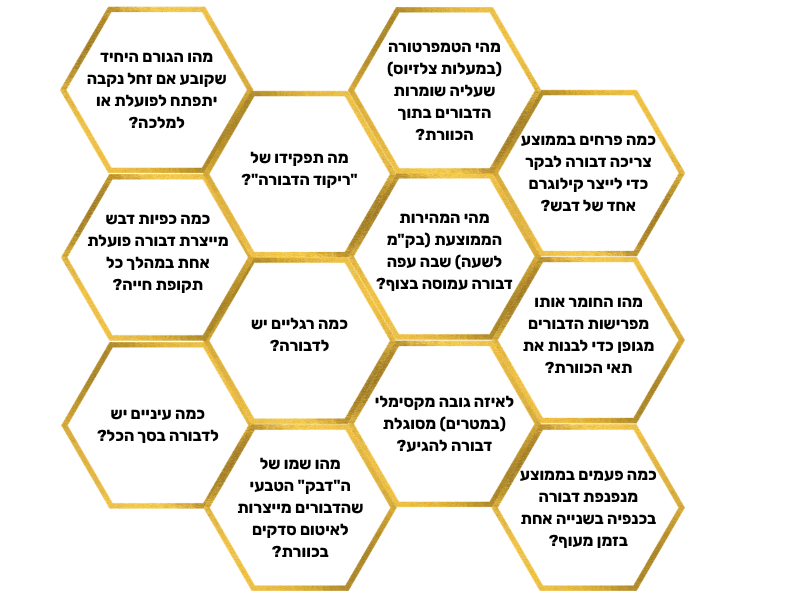
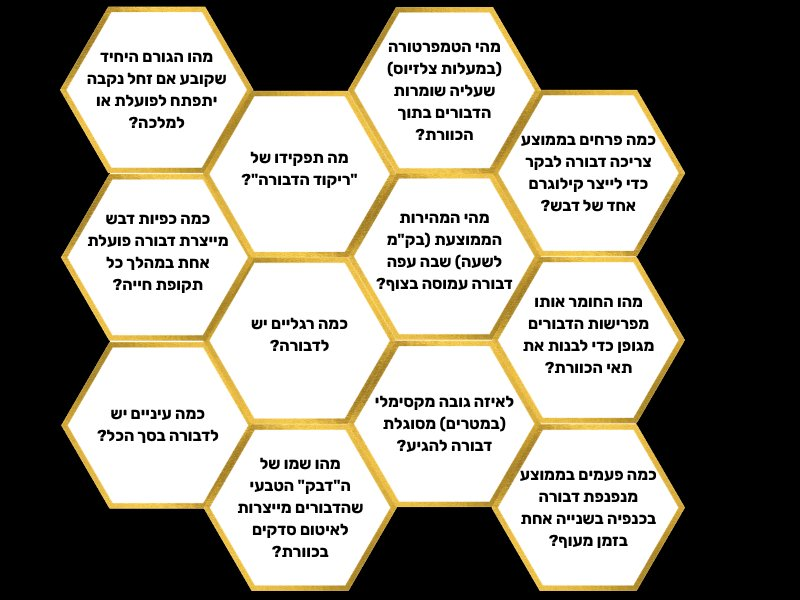
Add files via upload

diff --git a/styles.css b/styles.css
@@ -15,7 +15,7 @@ body {
     overflow-x: hidden;
 }
 
-/* פאטרן משושים צהבהבים-אפרפרים */
+/* פאטרן משושים צהבהבים-אפרפרים - בגודל דומה ללוח */
 body::before {
     content: '';
     position: fixed;
@@ -23,17 +23,13 @@ body::before {
     left: 0;
     right: 0;
     bottom: 0;
-    background-size: 60px 104px;
     background-image:
-        linear-gradient(30deg, rgba(255, 220, 150, 0.2) 12%, transparent 12.5%, transparent 87%, rgba(255, 220, 150, 0.2) 87.5%, rgba(255, 220, 150, 0.2)),
-        linear-gradient(150deg, rgba(255, 220, 150, 0.2) 12%, transparent 12.5%, transparent 87%, rgba(255, 220, 150, 0.2) 87.5%, rgba(255, 220, 150, 0.2)),
-        linear-gradient(30deg, rgba(255, 220, 150, 0.2) 12%, transparent 12.5%, transparent 87%, rgba(255, 220, 150, 0.2) 87.5%, rgba(255, 220, 150, 0.2)),
-        linear-gradient(150deg, rgba(255, 220, 150, 0.2) 12%, transparent 12.5%, transparent 87%, rgba(255, 220, 150, 0.2) 87.5%, rgba(255, 220, 150, 0.2)),
-        linear-gradient(60deg, rgba(255, 210, 140, 0.15) 25%, transparent 25.5%, transparent 75%, rgba(255, 210, 140, 0.15) 75%, rgba(255, 210, 140, 0.15)),
-        linear-gradient(60deg, rgba(255, 210, 140, 0.15) 25%, transparent 25.5%, transparent 75%, rgba(255, 210, 140, 0.15) 75%, rgba(255, 210, 140, 0.15));
-    background-size: 80px 140px;
-    background-position: 0 0, 0 0, 40px 70px, 40px 70px, 0 0, 40px 70px;
-    opacity: 0.4;
+        linear-gradient(30deg, transparent 40%, rgba(255, 220, 150, 0.12) 40%, rgba(255, 220, 150, 0.12) 60%, transparent 60%),
+        linear-gradient(150deg, transparent 40%, rgba(255, 220, 150, 0.12) 40%, rgba(255, 220, 150, 0.12) 60%, transparent 60%),
+        linear-gradient(270deg, transparent 40%, rgba(255, 220, 150, 0.12) 40%, rgba(255, 220, 150, 0.12) 60%, transparent 60%);
+    background-size: 140px 160px;
+    background-position: 0 0, 0 0, 70px 80px;
+    opacity: 0.5;
     pointer-events: none;
     z-index: 0;
 }
@@ -116,8 +112,8 @@ h1 {
 .questions-board {
     position: relative;
     margin-bottom: 40px;
-    filter: drop-shadow(0 15px 35px rgba(0,0,0,0.4)) 
-            drop-shadow(0 8px 15px rgba(0,0,0,0.2));
+    filter: drop-shadow(0 10px 25px rgba(0,0,0,0.3)) 
+            drop-shadow(0 5px 12px rgba(0,0,0,0.15));
 }
 
 .questions-image {

diff --git a/script.js b/script.js
@@ -1,4 +1,6 @@
 // נתוני המשחק
+// שימי לב: משושי התשובות (answers/) צריכים להיות 12 קבצי PNG נפרדים שחתכת בפוטושופ
+// כל קובץ צריך להיקרא בדיוק כמו התשובה (עם קו תחתון במקום רווחים)
 const gameData = [
     { question: "כמה פרחים בממוצע צריכה דבורה לבקר כדי לייצר קילוגרם אחד של דבש?", answer: "4,000,000", letterImage: "letters/4000000.png", answerImage: "answers/4000000.png" },
     { question: "כמה עיניים יש לדבורה בסך הכל?", answer: "5", letterImage: "letters/5.png", answerImage: "answers/5.png" },